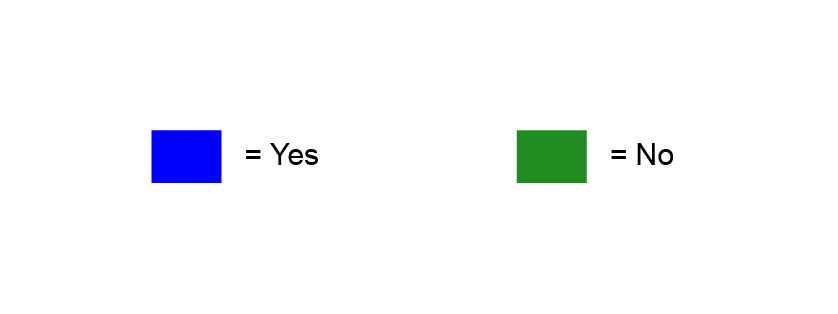
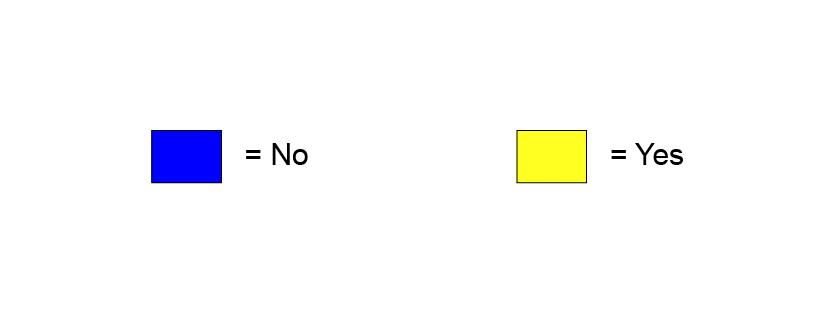
Archive - GTS version before addition of belief updating questions

diff --git a/main.cpp b/main.cpp
@@ -148,6 +148,7 @@ TargetFrame Target;
 bool nextstateflag = false;
 bool redotrialflag = false;
 bool gotkey = false;
+bool keyup = false;
 int numredos = 0;
 //int dotrialflag = 0;
 
@@ -228,12 +229,13 @@ int main(int argc, char* args[])
 					flagoffsetkey = 1;
 					Target.key = '0';
 					//std::cerr << "Zero requested" << std::endl;
+					keyup = false;
 				}
 				else if (event.key.keysym.sym == SDLK_r)
 				{
 					redotrialflag = true;
 					Target.key = 'r';
-
+					keyup = false;
 					//std::cerr << "Redo requested" << std::endl;
 				}
 				/*
@@ -249,18 +251,27 @@ int main(int argc, char* args[])
 					nextstateflag = true;
 					Target.key = 's';
 					//std::cerr << "Advance requested" << std::endl;
+					keyup = false;
+				}
+				else if (event.key.keysym.sym == SDLK_z || event.key.keysym.sym == SDLK_x) //if( event.key.keysym.unicode < 0x80 && event.key.keysym.unicode > 0 )
+				{
+					Target.key = *SDL_GetKeyName(event.key.keysym.sym);  //(char)event.key.keysym.unicode;
+					//std::cerr << Target.flag << std::endl;
+					gotkey = true;
+					keyup = false;
 				}
 				else //if( event.key.keysym.unicode < 0x80 && event.key.keysym.unicode > 0 )
 				{
 					Target.key = *SDL_GetKeyName(event.key.keysym.sym);  //(char)event.key.keysym.unicode;
 					//std::cerr << Target.flag << std::endl;
-					gotkey = true;
+					keyup = false;
 				}
 			}
 			else if (event.type == SDL_KEYUP)
 			{
 				Target.key = ' ';
-				gotkey = false;
+				//gotkey = false;
+				keyup = true;
 			}
 			else if (event.type == SDL_QUIT)
 			{
@@ -407,7 +418,7 @@ bool init()
 
 	int a;
 	char tmpstr[80];
-	char fname[50] = TRIALFILE;
+	char fname[80] = TRIALFILE;
 	//char dataPath[50] = DATA_OUTPUT_PATH;
 
 	//std::cerr << "Start init." << std::endl;
@@ -708,7 +719,8 @@ bool init()
 	q1text = Image::ImageText(q1text, "Did you make any mistakes when showing how to use the object?","arial.ttf", 28, textColor);
 	q1text->Off();
 
-	q2text = Image::ImageText(q2text, "Were you successful overall in showing how to use the object?","arial.ttf", 28, textColor);
+	q2text = Image::ImageText(q2text, "Did you correctly show how to use this object?","arial.ttf", 28, textColor);
+	//q2text = Image::ImageText(q2text, "Were you successful overall in showing how to use the object?","arial.ttf", 28, textColor);
 	q2text->Off();
 
 	//set up the new data file and start recording
@@ -802,7 +814,7 @@ void clean_up()
 	delete returntext;
 	delete mousetext;
 	delete q1text;
-	delete q2text;
+	//delete q2text;
 
 	//std::cerr << "Deleted all objects." << std::endl;
 
@@ -849,8 +861,8 @@ static void draw_screen()
 	}
 
 	respprompt->Draw();
-	q1text->DrawAlign(float(PHYSICAL_WIDTH)/3.0f,float(PHYSICAL_HEIGHT)*3.0f/5.0f,3);
-	q2text->DrawAlign(float(PHYSICAL_WIDTH)/3.0f,float(PHYSICAL_HEIGHT)*3.0f/5.0f,3);
+	q1text->DrawAlign(float(PHYSICAL_WIDTH)/5.0f,float(PHYSICAL_HEIGHT)*3.0f/5.0f,3);
+	q2text->DrawAlign(float(PHYSICAL_WIDTH)/5.0f,float(PHYSICAL_HEIGHT)*3.0f/5.0f,3);
 
 	blackRegion.Draw();
 
@@ -1330,7 +1342,7 @@ void game_update()
 	case Q1State:
 
 
-		if (qresponded && !gotkey && (trialTimer->Elapsed() > 1500))
+		if (qresponded && !gotkey && keyup && (trialTimer->Elapsed() > 1500))
 		{
 			Target.key = ' ';
 			trialTimer->Reset();// = SDL_GetTicks();
@@ -1339,10 +1351,13 @@ void game_update()
 			gotkey = false;
 			didgotkey = false;
 
+			//we have responses for both questions, we will save that out
+			qrecord = true;
+
 			q2text->On();
 			respprompt->On();
-
 			state = Q2State;
+			//state = EndTrial;
 		}
 
 
@@ -1365,7 +1380,7 @@ void game_update()
 	case Q2State:
 
 
-		if (qresponded && !gotkey && (trialTimer->Elapsed() > 1500))
+		if (qresponded && !gotkey && keyup && (trialTimer->Elapsed() > 1500))
 		{
 			Target.key = ' ';
 			trialTimer->Reset();// = SDL_GetTicks();

diff --git a/config.h b/config.h
@@ -9,11 +9,11 @@
 //set this to the data path in which the current set of data for this block should be stored.
 
 //set the subject number
-#define SUBJECT_ID "TEST999"
+#define SUBJECT_ID "ST027"
 
 //define the file that contains the name of the trial table
-#define TRIALFILE "./TrialTables/pair2/tbl2-1_listB_VF.txt"
-
+#define TRIALFILE "C:/Users/MRRI/Desktop/nab/TrialTables/pair1/tbl1-2_listA_VF.txt"
+//./TrialTables/pair8/practice8_VF
 //define the folder where the data will go (this folder must exist!)
 #define DATAPATH "C:/Users/MRRI/Desktop/nabdata/"
 

diff --git a/DataWriter.cpp b/DataWriter.cpp
@@ -148,7 +148,7 @@ DataWriter::DataWriter(TargetFrame Target, const char* filename)
 			 << "Redo "
 			 << "Item "
 			 << "Vision "
-			 << "Q1Resp "
+			 << "Q1Resp"
 			 << "Q2Resp "
 			 << endl;
 
@@ -221,7 +221,7 @@ void DataWriter::Record(TargetFrame Target)
 			<< Target.redo << " "
 			<< Target.trace + 1 << " "
 			<< Target.visfdbk << " "
-			<< Target.resp1 << " "
+			<< Target.resp1
 			<< Target.resp2
 			<< endl;
 	}
